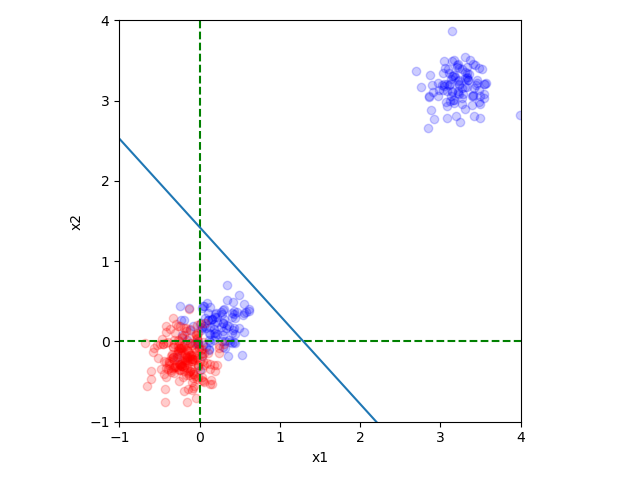
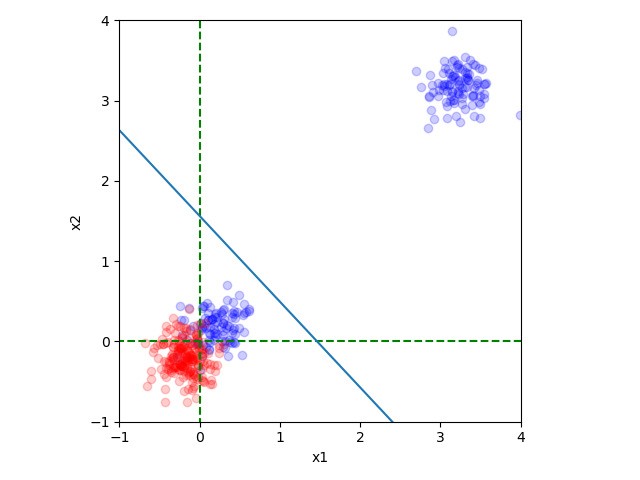
done coding part now?

Changed region(s): [[0.25, 0.375, 0.4688, 0.6875], [0.4688, 0.6875, 0.625, 0.875], [0.1875, 0.2812, 0.25, 0.375]]

diff --git a/assignments/coding2/CodingAss2/main.py b/assignments/coding2/CodingAss2/main.py
@@ -14,7 +14,7 @@ If you are plotting the decision boundary for a logistic classifier, set "is_log
 "figure_name" specifies the name of the saved diagram.
 """
 
-NUM_ITER = 100
+NUM_ITER = 1000000
 alpha = 0.01
 
 def sigmoid(z):
@@ -25,15 +25,14 @@ def train_logistic_regression(X, t):
     Given data, train your logistic classifier.
     Return weight and bias
     """
-
     # initialize w
-    m = X.shape[1]
+    n, m = X.shape
     w = np.zeros(m)
     b = 0
     for _ in range(NUM_ITER):
-        y_hat = predict_logistic_regression(X, w, b)
-        w -= 1/m * alpha * X.T @ (y_hat - t)
-        b -= 1/m * alpha * np.sum(y_hat-t)
+        y_hat = sigmoid(X @ w  + b)
+        w -= alpha * X.T @ (y_hat-t) / m
+        b -= alpha * np.sum(y_hat-t) / m
 
     return w, b
 
@@ -44,24 +43,25 @@ def predict_logistic_regression(X, w, b):
 
     # 1 if sigmoid(z) >= 0.5 else 0
     t = sigmoid(X @ w + b) >= 0.5
-
-    return t
+    return t * 1
 
 def train_linear_regression(X, t):
     """
     Given data, train your linear regression classifier.
     Return weight and bias
     """
-    def cross_entropy_loss(y):
-        return -t * np.log(y) - (1-t) * np.log(1-y)
-    m = X.shape[1]
+    n, m = X.shape
+    
     w = np.zeros(m)
     b = 0
-    for _ in range(NUM_ITER):
-        y_hat = predict_linear_regression(X, w, b)
-        w -= 1/m * alpha * X.T @ (y_hat-t)
-        b -= 1/m * alpha * np.sum(y_hat-t)
 
+
+    X = np.append(X, np.ones((n,1)), axis=1) 
+
+    w = np.linalg.inv((X.T).dot(X)).dot(X.T).dot(t)
+
+    b = w[-1]
+    w = w[:-1]
     return w, b
 
 def predict_linear_regression(X, w, b):
@@ -69,7 +69,7 @@ def predict_linear_regression(X, w, b):
     Generate predictions by your logistic classifier.
     """
     t = (X @ w + b) >= 0
-    return t
+    return t * 1
 
 def get_accuracy(t, t_hat):
     """
@@ -94,7 +94,7 @@ def main():
     X, t = generate_data("A")
     w, b = train_logistic_regression(X, t)
     t_hat = predict_logistic_regression(X, w, b)
-    print("Accuracy of linear regression on dataset A:", get_accuracy(t_hat, t))
+    print("Accuracy of logistic regression on dataset A:", get_accuracy(t_hat, t))
     plot_data(X, t, w, b, is_logistic=True, figure_name='dataset_A_logistic.png')
 
     # Dataset B
@@ -109,7 +109,7 @@ def main():
     X, t = generate_data("B")
     w, b = train_logistic_regression(X, t)
     t_hat = predict_logistic_regression(X, w, b)
-    print("Accuracy of linear regression on dataset B:", get_accuracy(t_hat, t))
+    print("Accuracy of logistic regression on dataset B:", get_accuracy(t_hat, t))
     plot_data(X, t, w, b, is_logistic=True, figure_name='dataset_B_logistic.png')
 
 main()
